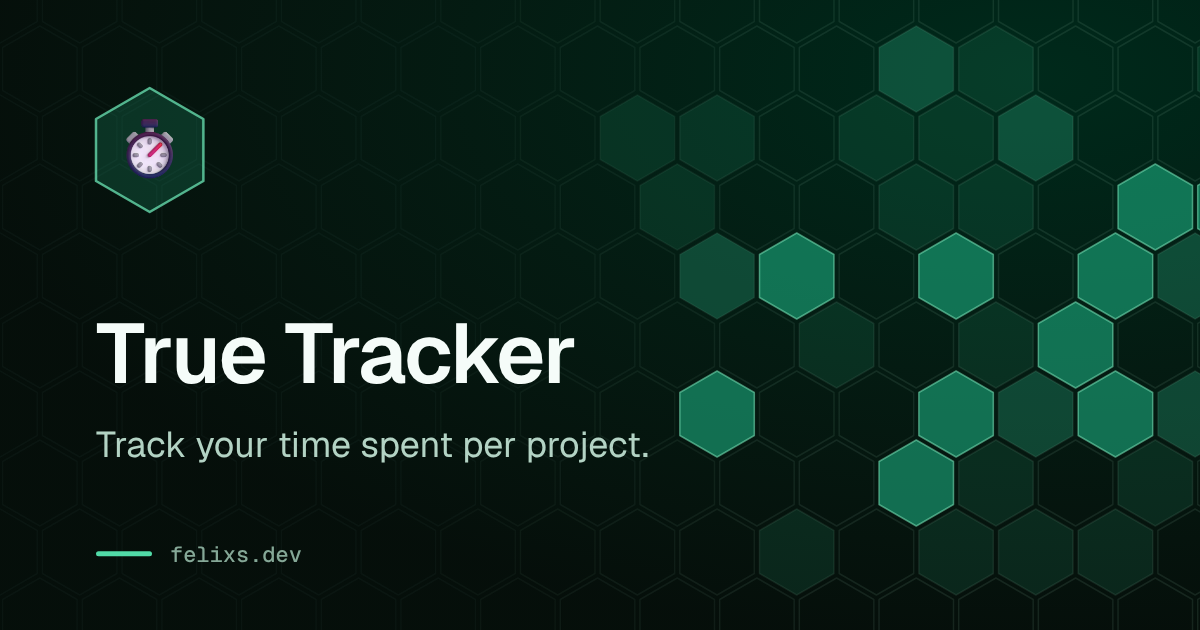
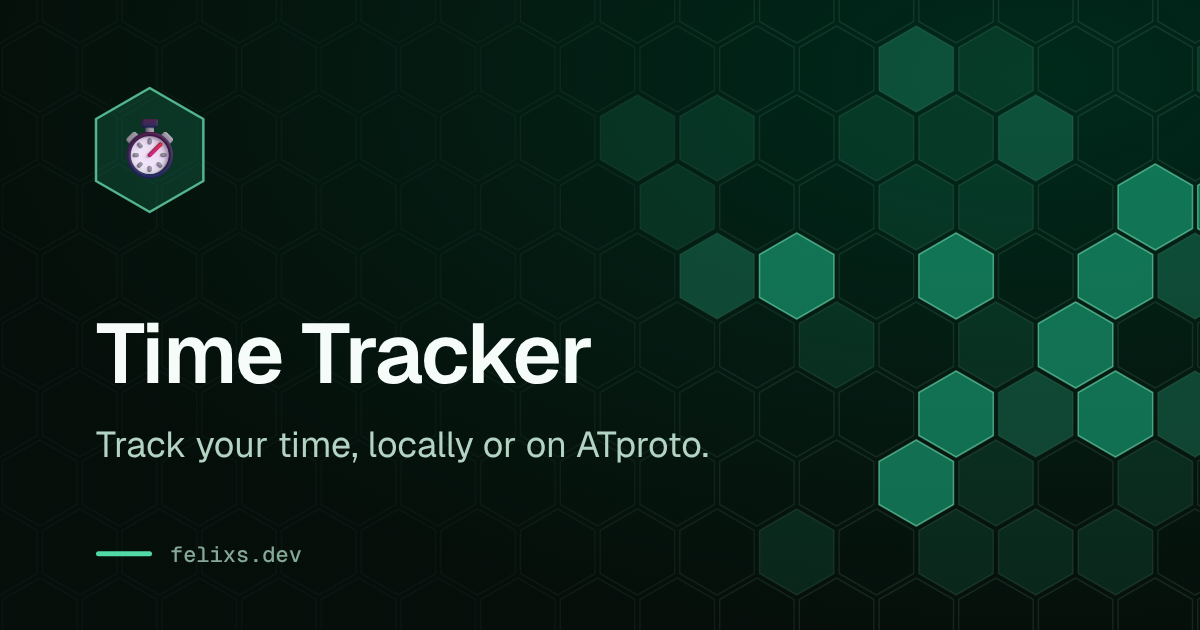
fix: use the Time Tracker image and alt text
Claude-Session: https://claude.ai/code/session_015Dv7onM2LxU2durBF8oBS3

Changed region(s): [[0.1233, 0.5127, 0.4933, 0.6333], [0.2775, 0.573, 0.6475, 0.754]]

diff --git a/nuxt.config.ts b/nuxt.config.ts
@@ -23,7 +23,7 @@ const SECURITY_HEADERS = {
 
 const SITE_URL = 'https://time-tracker.space'
 const OG_IMAGE_URL = `${SITE_URL}/og-image.png`
-const OG_IMAGE_ALT = 'True Tracker: Track your time spent per project.'
+const OG_IMAGE_ALT = 'Time Tracker: Track your time, locally or on ATproto.'
 
 const DESCRIPTION = 'Track the time you spend on your projects, locally or on your own ATproto repository.'
 
